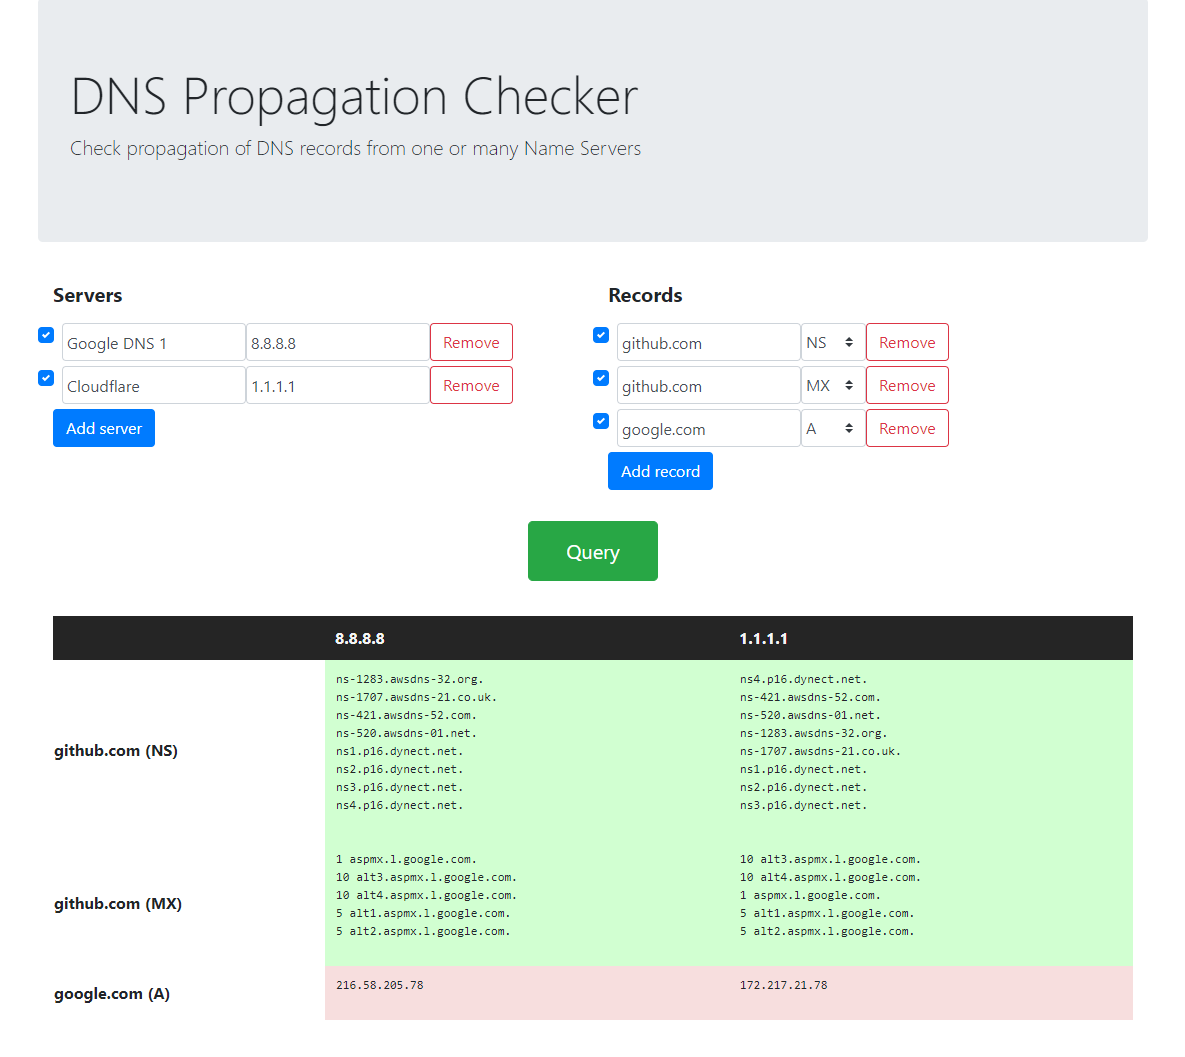
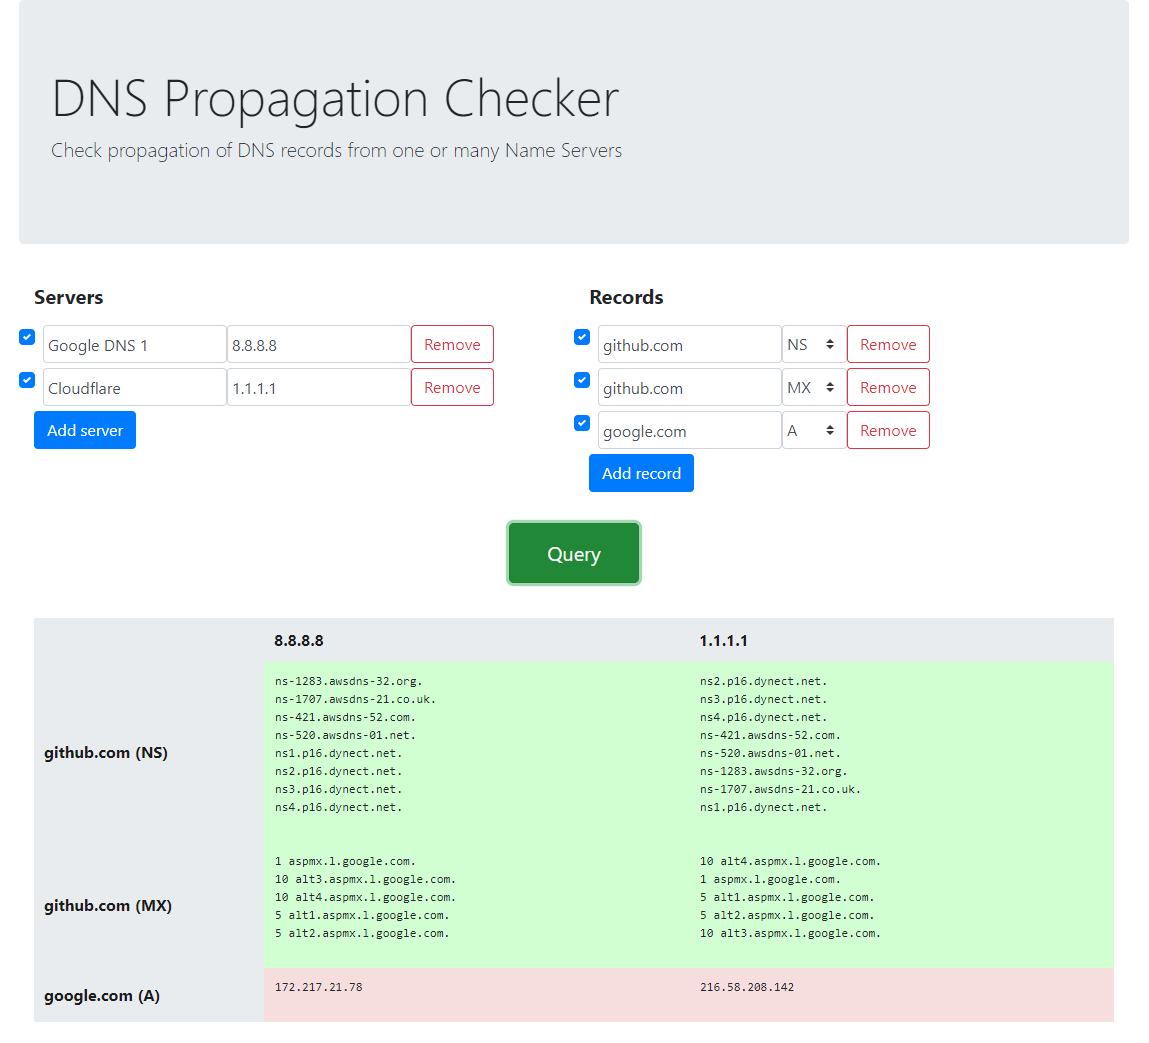
Minor changes to colors

diff --git a/assets/css/main.css b/assets/css/main.css
@@ -19,14 +19,18 @@ table.result {
 table.result thead {
     font-size: 16px;
     font-weight: bold;
-    background-color: #252525;
-    color: #f5f5f5;
+    background-color: #e9ecef;
+    color: #1b1b1b;
 }
 
 table.result thead > td {
     padding-top: 10px;
     padding-bottom: 10px;
     padding-left: 10px;
+}
+
+table.result thead td:first-of-type {
+    
 }
 
 table.result tbody > tr.no-diff > td:not(:first-child) {
@@ -43,8 +47,12 @@ table.result tbody > tr > td {
     padding-bottom: 10px;
 }
 table.result tbody > tr > td:first-of-type {
+    width: 230px;
     font-size: 16px;
     font-weight: bold;
+    background-color: #e9ecef;
+    color: #1b1b1b;
+    padding-left: 10px;
 }
 table.result tbody > tr > td:not(:first-child) {
     font-family: 'Courier';
@@ -52,6 +60,12 @@ table.result tbody > tr > td:not(:first-child) {
 }
 table.result tbody > tr > td > pre {
     padding-left: 10px;
+}
+
+table.result tbody > tr:hover td:first-of-type {
+    background-color: #1b1b1b !important;
+    color: #e9ecef;
+    cursor: pointer;
 }
 
 div.query {
